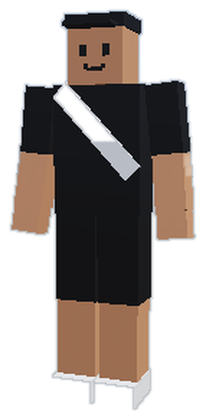
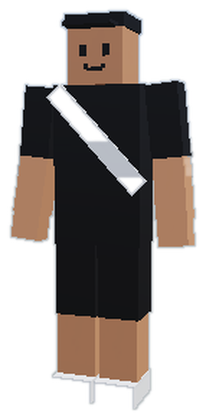
Boneco em blocos mais proporcional: tronco maior, pernas mais curtas
- Quadril de 0,50H para 0,42H (pernas 42% da altura, como o tronco); joelho 0,27H -> 0,23H;
  barriga começa em 0,56H; braço do ombro até o quadril; a cabeça e a altura total iguais
- Colete e estampas da camisa acompanham o tronco novo
- Molde das skins com as medidas novas (molde.json, docs/skins), guia com tamanhos e
  divisões novos (também nos prompts); skin do Rubro remontada; retratos das 10 roupas refeitos
- Testes: pulo/velocidade, escada, online e partida OK
- Versão 0.18

Claude-Session: https://claude.ai/code/session_012EZ5KKTFERXFdQTAkopxx1

diff --git a/motor/procgen/Character.cpp b/motor/procgen/Character.cpp
@@ -314,6 +314,9 @@ void wave(ClipWriter& w, const Joints& J) {
 }  // namespace
 
 
+// Boneco em blocos: onde a barriga (camisa) começa; abaixo é a cintura (calça), até o quadril (0,42H)
+constexpr float kBarriga = 0.56f;
+
 // Corpo em blocos com skin pintada: cada parte do molde é uma caixa; partes com mais de um bloco (tronco, braço,
 // perna) dividem as laterais da imagem pela altura de cada bloco. Topo e base só nos blocos das pontas; entre
 // dois blocos a tampa usa a linha da divisão (fica da cor da roupa ali quando a junta dobra).
@@ -339,7 +342,7 @@ static void buildTexturedBlockBody(const CharacterParams& p, MeshBuilder& b, flo
     };
     const float tw = (sx - 0.05f * H) * 2.f, td = 0.12f * H;
     // tronco: peito, barriga, cintura (0.84H .. 0.5H)
-    const float t0 = 0.84f * H, t1 = 0.68f * H, t2 = 0.6f * H, t3 = thighY, tl = t0 - t3;
+    const float t0 = 0.84f * H, t1 = 0.68f * H, t2 = kBarriga * H, t3 = thighY, tl = t0 - t3;
     seg(SP_Tronco, CJ_Chest, 0, 0, tw, td, t0, t1, 0.f, (t0 - t1) / tl);
     seg(SP_Tronco, CJ_Spine, 0, 0, tw, td, t1, t2, (t0 - t1) / tl, (t0 - t2) / tl);
     seg(SP_Tronco, CJ_Hips, 0, 0, tw, td, t2, t3, (t0 - t2) / tl, 1.f);
@@ -387,11 +390,11 @@ static void buildBlockBody(const CharacterParams& p, MeshBuilder& b, float H, fl
     const float tw = (sx - 0.05f * H) * 2.f, td = 0.12f * H;    // tronco: largura e profundidade
     const float waist = thighY, chestTop = 0.84f * H;
     // ---- tronco: cintura (calça), barriga e peito (camisa)
-    part(CJ_Hips, p.pants, {0, (waist + 0.6f * H) * 0.5f, 0}, {tw, 0.6f * H - waist + 0.002f * H, td});
-    part(CJ_Spine, p.shirt, {0, 0.64f * H, 0}, {tw, 0.08f * H, td});
+    part(CJ_Hips, p.pants, {0, (waist + kBarriga * H) * 0.5f, 0}, {tw, kBarriga * H - waist + 0.002f * H, td});
+    part(CJ_Spine, p.shirt, {0, (kBarriga + 0.68f) * 0.5f * H, 0}, {tw, (0.68f - kBarriga) * H, td});
     part(CJ_Chest, p.shirt, {0, (0.68f * H + chestTop) * 0.5f, 0}, {tw, chestTop - 0.68f * H, td});
     // estampas da camisa (um pouco por fora do tronco, para não piscar)
-    const float e = 0.004f * H, y0 = 0.6f * H, y1 = chestTop;
+    const float e = 0.004f * H, y0 = kBarriga * H, y1 = chestTop;
     auto faixa = [&](int joint, glm::vec4 col, float ya, float yb, float xa, float xb, bool todaVolta) {
         part(joint, col, {(xa + xb) * 0.5f, (ya + yb) * 0.5f, 0}, {xb - xa + (todaVolta ? 2.f * e : 0.f), yb - ya, td + 2.f * e});
     };
@@ -470,7 +473,7 @@ static void buildBlockBody(const CharacterParams& p, MeshBuilder& b, float H, fl
 void buildBlockVest(const CharacterParams& p, MeshBuilder& b) {
     const float H = p.height;
     const float hw = 0.125f * H, hd = 0.066f * H;            // por fora do tronco (0,12H x 0,06H)
-    const float y0 = 0.6f * H, y1 = 0.83f * H;               // da barriga até perto dos ombros
+    const float y0 = (kBarriga + 0.01f) * H, y1 = 0.83f * H;  // da barriga até perto dos ombros
     glm::vec4 cor = p.coleteCor.a > 0.f ? p.coleteCor : srgb(32, 34, 38);
     cor.a = 1.f;
     const glm::vec4 escuro(cor.r * 0.7f, cor.g * 0.7f, cor.b * 0.7f, 1.f), alca(cor.r * 0.85f, cor.g * 0.85f, cor.b * 0.85f, 1.f);
@@ -502,10 +505,11 @@ void buildCharacter(const CharacterParams& p, LoadedModel& out, MeshBuilder& b) 
     // bloco (tipo Roblox): tronco largo e quadrado, braços e pernas grossos
     const float chestHalf = p.bloco ? 0.12f * H : 0.115f * H * s, armHalf = p.bloco ? 0.05f * H : 0.034f * H * (0.9f + 0.1f * s);
     const float sx = chestHalf + armHalf + (p.bloco ? 0.f : 0.004f * H), tx = p.bloco ? 0.06f * H : 0.055f * H * s;
-    const float shoulderY = 0.825f * H, elbowY = shoulderY - (p.bloco ? 0.165f : 0.175f) * H, wristY = elbowY - (p.bloco ? 0.15f : 0.155f) * H;
-    const float thighY = (p.bloco ? 0.5f : 0.52f) * H, kneeY = (p.bloco ? 0.27f : 0.285f) * H, ankleY = 0.045f * H;
+    // bloco: proporção de boneco de blocos (pernas e tronco do mesmo tamanho; braço do ombro até o quadril)
+    const float shoulderY = 0.825f * H, elbowY = shoulderY - 0.175f * H, wristY = elbowY - (p.bloco ? 0.16f : 0.155f) * H;
+    const float thighY = (p.bloco ? 0.42f : 0.52f) * H, kneeY = (p.bloco ? 0.23f : 0.285f) * H, ankleY = 0.045f * H;
     glm::vec3 pos[CJ_Total] = {
-        {0, 0.53f * H, 0}, {0, 0.62f * H, 0}, {0, 0.72f * H, 0}, {0, 0.865f * H, 0},
+        {0, (p.bloco ? 0.47f : 0.53f) * H, 0}, {0, 0.62f * H, 0}, {0, 0.72f * H, 0}, {0, 0.865f * H, 0},
         {sx, shoulderY, 0}, {sx, elbowY, 0}, {sx, wristY, 0}, {-sx, shoulderY, 0}, {-sx, elbowY, 0}, {-sx, wristY, 0},
         {tx, thighY, 0}, {tx, kneeY, 0}, {tx, ankleY, 0}, {-tx, thighY, 0}, {-tx, kneeY, 0}, {-tx, ankleY, 0}};
     int parent[CJ_Total] = {-1, CJ_Hips, CJ_Spine, CJ_Neck, CJ_Chest, CJ_LUpper, CJ_LFore, CJ_Chest, CJ_RUpper, CJ_RFore,

diff --git a/tools/gerar_molde_personagem.py b/tools/gerar_molde_personagem.py
@@ -25,17 +25,20 @@ H = 1.75  # altura do boneco (m)
 # Partes: largura (x), altura (y), profundidade (z) em metros, escala (px por metro no molde de 1024) e canto.
 # Partes com mais de um bloco têm divisões (frações da altura, de cima para baixo) que o motor usa.
 PARTES = {
-    'tronco':    dict(w=0.24 * H, h=0.34 * H, d=0.12 * H, s=400, o=(4, 4), nome='TRONCO',
-                      div=[('peito', 0.16 / 0.34), ('barriga', 0.24 / 0.34), ('cintura', 1.0)]),
+    # tronco: do quadril (0,42H) até o ombro (0,84H): peito 0,68..0,84 · barriga 0,56..0,68 · cintura 0,42..0,56
+    'tronco':    dict(w=0.24 * H, h=0.42 * H, d=0.12 * H, s=340, o=(4, 4), nome='TRONCO',
+                      div=[('peito', 0.16 / 0.42), ('barriga', 0.28 / 0.42), ('cintura', 1.0)]),
     'cabeca':    dict(w=0.15 * H, h=0.15 * H, d=0.14 * H, s=500, o=(514, 4), nome='CABEÇA', div=[]),
-    'braco_dir': dict(w=0.085 * H, h=0.4 * H, d=0.085 * H, s=380, o=(4, 418), nome='BRAÇO DIREITO',
-                      div=[('ombro', 0.18 / 0.4), ('antebraço', 0.33 / 0.4), ('mão', 1.0)]),
-    'braco_esq': dict(w=0.085 * H, h=0.4 * H, d=0.085 * H, s=380, o=(236, 418), nome='BRAÇO ESQUERDO',
-                      div=[('ombro', 0.18 / 0.4), ('antebraço', 0.33 / 0.4), ('mão', 1.0)]),
-    'perna_dir': dict(w=0.115 * H, h=0.455 * H, d=0.114 * H, s=315, o=(514, 390), nome='PERNA DIREITA',
-                      div=[('coxa', 0.24 / 0.455), ('canela', 1.0)]),
-    'perna_esq': dict(w=0.115 * H, h=0.455 * H, d=0.114 * H, s=315, o=(768, 390), nome='PERNA ESQUERDA',
-                      div=[('coxa', 0.24 / 0.455), ('canela', 1.0)]),
+    # braço: do ombro (0,84H) até a ponta da mão (0,42H): ombro 0,84..0,65 · antebraço 0,65..0,49 · mão 0,49..0,42
+    'braco_dir': dict(w=0.085 * H, h=0.42 * H, d=0.085 * H, s=360, o=(4, 418), nome='BRAÇO DIREITO',
+                      div=[('ombro', 0.19 / 0.42), ('antebraço', 0.35 / 0.42), ('mão', 1.0)]),
+    'braco_esq': dict(w=0.085 * H, h=0.42 * H, d=0.085 * H, s=360, o=(236, 418), nome='BRAÇO ESQUERDO',
+                      div=[('ombro', 0.19 / 0.42), ('antebraço', 0.35 / 0.42), ('mão', 1.0)]),
+    # perna: do quadril (0,425H) até o tornozelo (0,05H): coxa 0,425..0,225 · canela 0,225..0,05
+    'perna_dir': dict(w=0.115 * H, h=0.375 * H, d=0.114 * H, s=315, o=(514, 390), nome='PERNA DIREITA',
+                      div=[('coxa', 0.2 / 0.375), ('canela', 1.0)]),
+    'perna_esq': dict(w=0.115 * H, h=0.375 * H, d=0.114 * H, s=315, o=(768, 390), nome='PERNA ESQUERDA',
+                      div=[('coxa', 0.2 / 0.375), ('canela', 1.0)]),
     'pe_dir':    dict(w=0.1127 * H, h=0.06 * H, d=0.138 * H, s=300, o=(4, 806), nome='PÉ DIREITO', div=[]),
     'pe_esq':    dict(w=0.1127 * H, h=0.06 * H, d=0.138 * H, s=300, o=(270, 806), nome='PÉ ESQUERDO', div=[]),
 }

diff --git a/docs/skins/COMO_FAZER_SKIN.md b/docs/skins/COMO_FAZER_SKIN.md
@@ -34,9 +34,9 @@ Cada parte é uma caixa aberta em cruz:
 | Parte | Frente / Costas (largura x altura) | Lados | Topo / Base | Divisões (de cima para baixo) |
 |---|---|---|---|---|
 | Cabeça | 131 x 131 | 122 x 131 | 131 x 123 | — |
-| Tronco | 168 x 238 | 84 x 238 | 168 x 84 | peito (47%), barriga (24%), cintura (29%) |
-| Braço (cada um) | 57 x 266 | 57 x 266 | 57 x 57 | ombro/braço (45%), antebraço (37%), mão (18%) |
-| Perna (cada uma) | 63 x 251 | 63 x 251 | 63 x 63 | coxa (53%), canela (47%) |
+| Tronco | 143 x 250 | 71 x 250 | 143 x 71 | peito (38%), barriga (29%), cintura (33%) |
+| Braço (cada um) | 54 x 265 | 54 x 265 | 54 x 54 | ombro/braço (45%), antebraço (38%), mão (17%) |
+| Perna (cada uma) | 63 x 207 | 63 x 207 | 63 x 63 | coxa (53%), canela (47%) |
 | Pé (cada um) | 59 x 32 | 72 x 32 | 59 x 72 | — |
 
 ## O que pintar em cada parte
@@ -74,8 +74,8 @@ Mande o `molde_personagem.png` junto e escreva:
 > Use the attached image as an exact UV layout template. Keep every rectangle in exactly the same position and size, on a square 1024x1024 canvas, and fill each rectangle with flat, game-ready texture art. This is a blocky low-poly game character (Roblox style) skin. Character: **[DESCREVA A ROUPA, ex.: Brazilian military police officer, light blue long-sleeve shirt, black tactical vest with white "POLÍCIA" text on chest and back, dark navy trousers, black boots, navy cap]**.
 > Each part is an unfolded box: the middle row is [RIGHT SIDE][FRONT][LEFT SIDE][BACK], with TOP above the FRONT and BOTTOM below it.
 > - HEAD: face on FRONT (simple cartoon eyes and mouth), hair or cap on TOP, SIDES and BACK.
-> - TORSO: shirt and vest. The top 47% is the chest, then 24% belly, and the bottom 29% is the waist with belt and trousers.
-> - ARMS: top 45% is the sleeve, next 37% the forearm, last 18% the hand (skin or glove).
+> - TORSO: shirt and vest. The top 38% is the chest, then 29% belly, and the bottom 33% is the waist with belt and trousers.
+> - ARMS: top 45% is the sleeve, next 38% the forearm, last 17% the hand (skin or glove).
 > - LEGS: top 53% is the thigh, bottom 47% the shin.
 > - FEET: shoes or boots.
 >
@@ -152,15 +152,15 @@ Gere cada pedaço separado, no tamanho da tabela, e cole no `molde_limpo.png` co
    > Square flat texture of the side/back of a blocky character head, [skin tone] skin with [short black hair / navy cap], no face, no shadows, fills the whole image.
 3. **Topo da cabeça (131x123)**
    > Flat top-down texture of [hair / cap / helmet], fills the whole image, no shadows.
-4. **Peito, barriga e cintura (FRENTE do tronco, 168x238)**
-   > Flat front texture of a [shirt description] for a blocky game character, top 47% chest, middle 24% belly, bottom 29% belt and [trousers]. Front orthographic view, no arms, no head, no shadows, fills the whole image.
-5. **Costas do tronco (168x238)**
-   > The same shirt seen from the back, [name/number/text on back], bottom 29% belt and trousers, flat, no shadows, fills the whole image.
-6. **Laterais do tronco (84x238)**
+4. **Peito, barriga e cintura (FRENTE do tronco, 143x250)**
+   > Flat front texture of a [shirt description] for a blocky game character, top 38% chest, middle 29% belly, bottom 33% belt and [trousers]. Front orthographic view, no arms, no head, no shadows, fills the whole image.
+5. **Costas do tronco (143x250)**
+   > The same shirt seen from the back, [name/number/text on back], bottom 33% belt and trousers, flat, no shadows, fills the whole image.
+6. **Laterais do tronco (71x250)**
    > Narrow flat side texture of the same shirt and trousers, same split heights, no shadows.
-7. **Braço (cada lado: 57x266)**
-   > Tall narrow flat texture of an arm: top 45% [sleeve], next 37% [forearm: sleeve or skin], bottom 18% [hand: skin or glove]. No shadows, fills the whole image.
-8. **Perna (cada lado: 63x251)**
+7. **Braço (cada lado: 54x265)**
+   > Tall narrow flat texture of an arm: top 45% [sleeve], next 38% [forearm: sleeve or skin], bottom 17% [hand: skin or glove]. No shadows, fills the whole image.
+8. **Perna (cada lado: 63x207)**
    > Tall narrow flat texture of a leg: top 53% [trousers/shorts], bottom 47% [trousers / bare skin / sock]. No shadows, fills the whole image.
 9. **Pé (59x32 na frente, 72x32 nos lados, 59x72 em cima)**
    > Small flat texture of a [sneaker/boot], side view, no shadows, fills the whole image.
